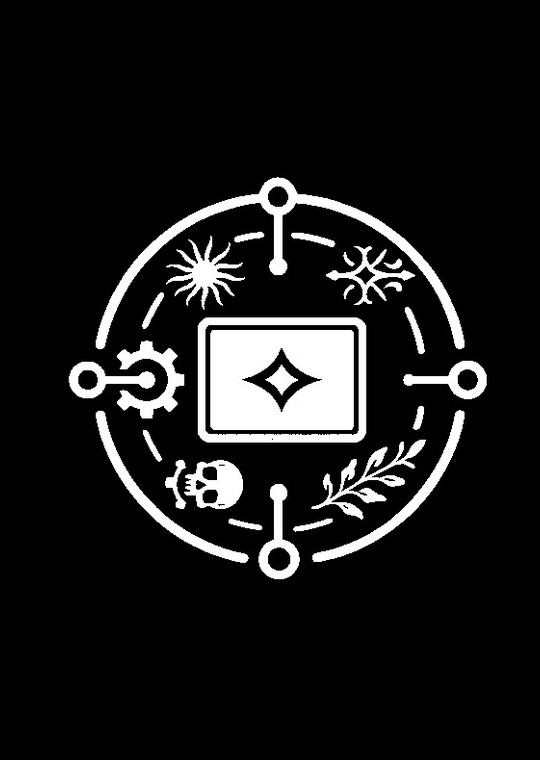
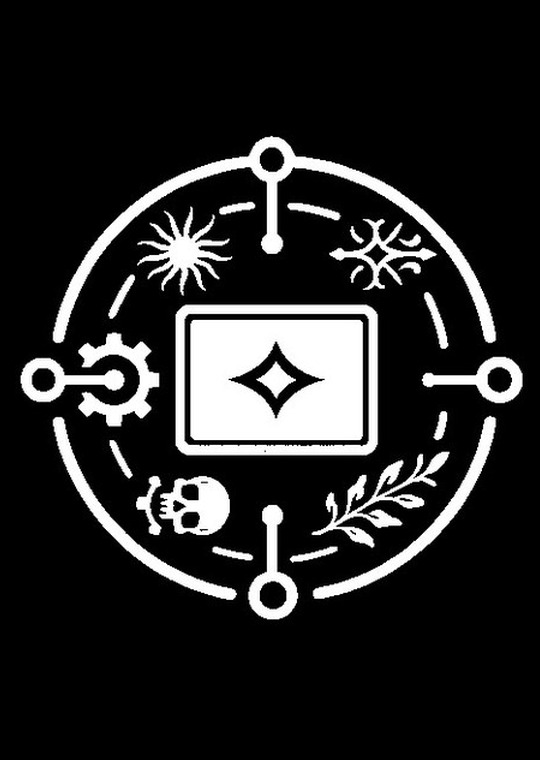
Fix card back: set default variant to rot0, sync canonical card_back.jpg

Changed region(s): [[0.0296, 0.1816, 0.9778, 0.8171]]

diff --git a/src/api/sleeveService.ts b/src/api/sleeveService.ts
@@ -14,7 +14,7 @@ export const CARD_BACK_ASSETS: Record<string, number> = {
 
 export const CARD_BACK_VARIANTS = Object.keys(CARD_BACK_ASSETS) as (keyof typeof CARD_BACK_ASSETS)[];
 
-let _cardBackVariant: string = 'rot90cw';
+let _cardBackVariant: string = 'rot0';
 const _cardBackCache: Map<string, ArrayBuffer> = new Map();
 
 export function getCardBackVariant(): string { return _cardBackVariant; }
